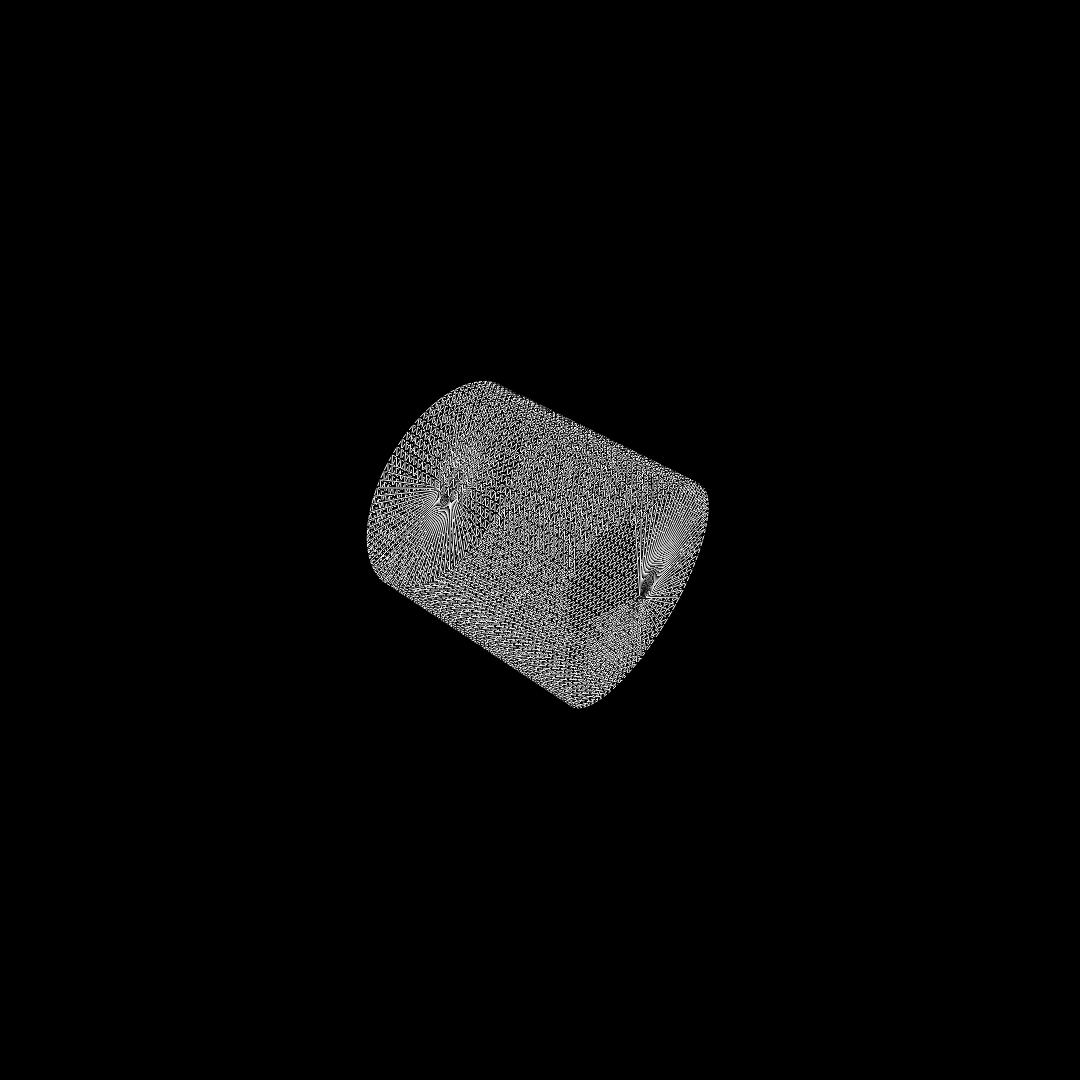
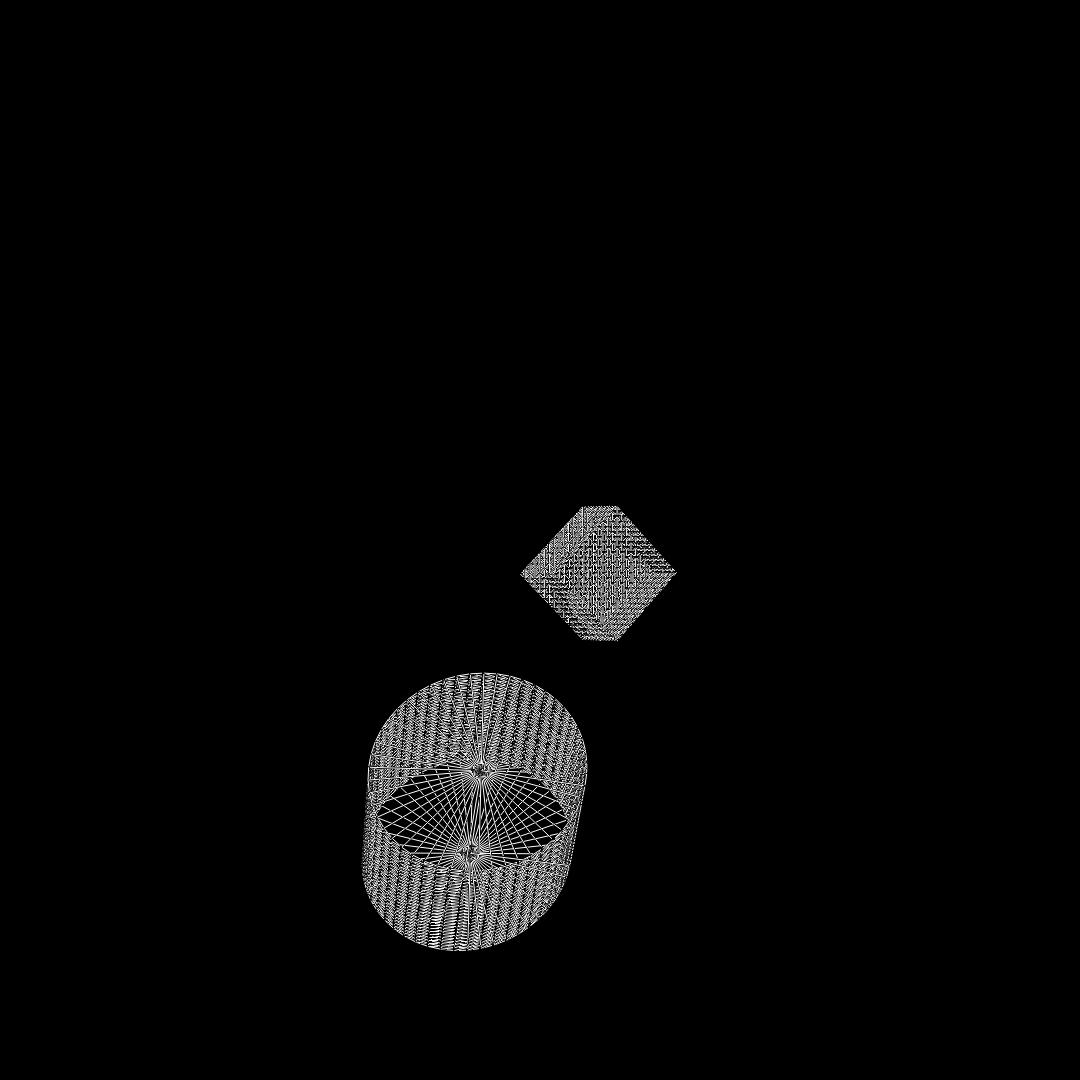
final version

Changed region(s): [[0.3361, 0.3361, 0.6722, 0.8861]]

diff --git a/a1/Cube.py b/a1/Cube.py
@@ -18,54 +18,9 @@ class Cube:
         m = Mesh()
 
         v_dict = {}
-        
-        # create all vertices
-        for first in range(0, n+1):
-            for second in range(0, n+1):
-                i = (2.0 / float(n)) * first - 1.0
-                j = (2.0 / float(n)) * second - 1.0
-
-                # z = 1
-                coordinates = (i, j, 1)
-                if v_dict.get(coordinates) == None:
-                    v_dict[coordinates] = True
-                    m.vertices.append(coordinates)
-
-                # z = -1
-                coordinates = (i, j, -1)
-                if v_dict.get(coordinates) == None:
-                    v_dict[coordinates] = True
-                    m.vertices.append(coordinates)
-
-                # y = 1 
-                coordinates = (i, 1, j)
-                if v_dict.get(coordinates) == None:
-                    v_dict[coordinates] = True
-                    m.vertices.append(coordinates)
-
-                # y = -1
-                coordinates = (i, -1, j)
-                if v_dict.get(coordinates) == None:
-                    v_dict[coordinates] = True
-                    m.vertices.append(coordinates)
-
-                # x = 1
-                coordinates = (1, i, j)
-                if v_dict.get(coordinates) == None:
-                    v_dict[coordinates] = True
-                    m.vertices.append(coordinates)
-            
-                # x = -1
-                coordinates = (-1, i, j)
-                if v_dict.get(coordinates) == None:
-                    v_dict[coordinates] = True
-                    m.vertices.append(coordinates)
-
-        v_dict.clear() # free ram
-
         e_dict = {}
 
-        # create edges
+        # create edges and vertices
         for first in range(0, n+1):
             for second in range(0, n+1):
                 i = float((2.0 / float(n)) * first - 1.0)
@@ -79,6 +34,10 @@ class Cube:
                 horizontal  = (i_plus1, j, 1.0)
                 vertical    = (i, j_plus1, 1.0)
                 diagonal    = (i_plus1, j_plus1, 1.0)
+                if v_dict.get(coordinates) == None:
+                    v_dict[coordinates] = True
+                    m.vertices.append(coordinates)
+
                 if first != n and e_dict.get( (coordinates, horizontal) ) == None:
                     e_dict[ (coordinates, horizontal) ] = True
                     m.edges.append( (coordinates, horizontal) )
@@ -96,6 +55,10 @@ class Cube:
                 horizontal  = (i_plus1, j, -1.0)
                 vertical    = (i, j_plus1, -1.0)
                 diagonal    = (i_plus1, j_plus1, -1.0)
+                if v_dict.get(coordinates) == None:
+                    v_dict[coordinates] = True
+                    m.vertices.append(coordinates)
+
                 if first != n and e_dict.get( (coordinates, horizontal) ) == None:
                     e_dict[ (coordinates, horizontal) ] = True
                     m.edges.append( (coordinates, horizontal) )
@@ -113,6 +76,10 @@ class Cube:
                 horizontal  = (i_plus1, 1.0, j)
                 vertical    = (i, 1.0, j_plus1)
                 diagonal    = (i_plus1, 1.0, j_plus1)
+                if v_dict.get(coordinates) == None:
+                    v_dict[coordinates] = True
+                    m.vertices.append(coordinates)
+
                 if first != n and e_dict.get( (coordinates, horizontal) ) == None:
                     e_dict[ (coordinates, horizontal) ] = True
                     m.edges.append( (coordinates, horizontal) )
@@ -130,6 +97,10 @@ class Cube:
                 horizontal  = (i_plus1, -1.0, j)
                 vertical    = (i, -1.0, j_plus1)
                 diagonal    = (i_plus1, -1.0, j_plus1)
+                if v_dict.get(coordinates) == None:
+                    v_dict[coordinates] = True
+                    m.vertices.append(coordinates)
+
                 if first != n and e_dict.get( (coordinates, horizontal) ) == None:
                     e_dict[ (coordinates, horizontal) ] = True
                     m.edges.append( (coordinates, horizontal) )
@@ -147,6 +118,10 @@ class Cube:
                 horizontal  = (1.0, i_plus1, j)
                 vertical    = (1.0, i, j_plus1)
                 diagonal    = (1.0, i_plus1, j_plus1)
+                if v_dict.get(coordinates) == None:
+                    v_dict[coordinates] = True
+                    m.vertices.append(coordinates)
+
                 if first != n and e_dict.get( (coordinates, horizontal) ) == None:
                     e_dict[ (coordinates, horizontal) ] = True
                     m.edges.append( (coordinates, horizontal) )
@@ -164,6 +139,10 @@ class Cube:
                 horizontal  = (-1.0, i_plus1, j)
                 vertical    = (-1.0, i, j_plus1)
                 diagonal    = (-1.0, i_plus1, j_plus1)
+                if v_dict.get(coordinates) == None:
+                    v_dict[coordinates] = True
+                    m.vertices.append(coordinates)
+
                 if first != n and e_dict.get( (coordinates, horizontal) ) == None:
                     e_dict[ (coordinates, horizontal) ] = True
                     m.edges.append( (coordinates, horizontal) )

diff --git a/a2/main.py b/a2/main.py
@@ -10,7 +10,7 @@ from mathUtil import *
 def main():
 
     cubeFactory = Cube()
-    cubeFactory.build_triangle_mesh(1)
+    cubeFactory.build_triangle_mesh(2000)
 
     cubeMesh = cubeFactory.mesh
     cubeMesh.add_transformation(TransformationFactory.scale(2.0, 2.0, 2.0))
@@ -18,7 +18,7 @@ def main():
     cubeMesh.add_transformation(TransformationFactory.x_rotation(45))
 
     cylinderFactory = Cylinder()
-    cylinderFactory.build_triangle_mesh(4000)
+    cylinderFactory.build_triangle_mesh(1350)
 
     mesh = cylinderFactory.mesh
     mesh.add_transformation(TransformationFactory.scale(4.0,4.0,4.0))
@@ -27,8 +27,8 @@ def main():
 
 
     myScene = Scene()
-    myScene.add_mesh(mesh, (0.0, 0.0, 0.0))
-    #myScene.add_mesh(cubeMesh, (-2.0, -2.0, 1.0))
+    myScene.add_mesh(mesh, (0.0, 0.0, -3.0))
+    myScene.add_mesh(cubeMesh, (-2.0, -2.0, 1.0))
 
     # cubeFactory.build_triangle_mesh(300)
     # floor_mesh = cubeFactory.mesh
@@ -37,8 +37,8 @@ def main():
     # myScene.add_mesh(floor_mesh, (0.0, 0.0, -1.0))
 
     camera = ViewSystem(myScene)
-    camera.build_camera(0.0, 0.0, 30.0)
-    camera.build_view_volume(25.0, 200.0, 15.0)
+    camera.build_camera(0.0, 20.0, 150.0)
+    camera.build_view_volume(23.0, 200.0, 5.0)
     camera.render_scene(1080, "renders/scene.jpg")
 
 

diff --git a/a2/ViewSystem.py b/a2/ViewSystem.py
@@ -125,14 +125,12 @@ class ViewSystem:
                     new_second = apply_transformation(second, self.world_to_camera)
                     solution_dict[second] = new_second
                 
-                print("old: " + str(edge))
-                print("new: " + str((new_first, new_second)))
+                # print("old: " + str(edge))
+                # print("new: " + str((new_first, new_second)))
                 scene_edges.append( (new_first, new_second) )
-        
         print("basis swap to camera complete")
 
 
-        # TODO: remove points outside of view volume
         before_filter = len(scene_edges)
         scene_edges = list(filter(self.edge_in_view_volume, scene_edges))
         difference = before_filter - len(scene_edges)
@@ -140,7 +138,6 @@ class ViewSystem:
 
         # project to window and write to canvas
         write_to_canvas = TransformationFactory.scale_to_image(float(dimensions), float(self.h), float(self.d))
-
         write_to_canvas = matrix_multiplication(write_to_canvas, self.project_to_window)
 
         solution_dict = {}

diff --git a/a2/TransformationFactory.py b/a2/TransformationFactory.py
@@ -83,7 +83,6 @@ def basis_change(U,V,N,C):
         [0, 0, 0, 1]
     ]
      
-
 # m by m = image area 
 # 2h by 2h = view plane area
 # d = distance to view plane
